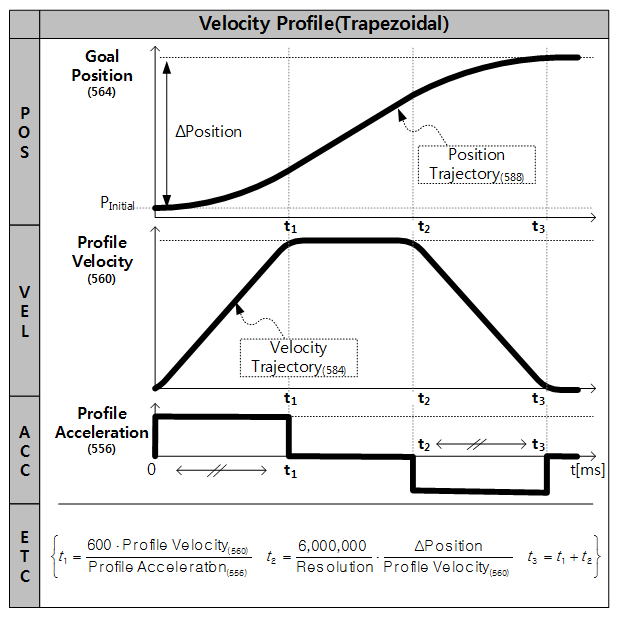
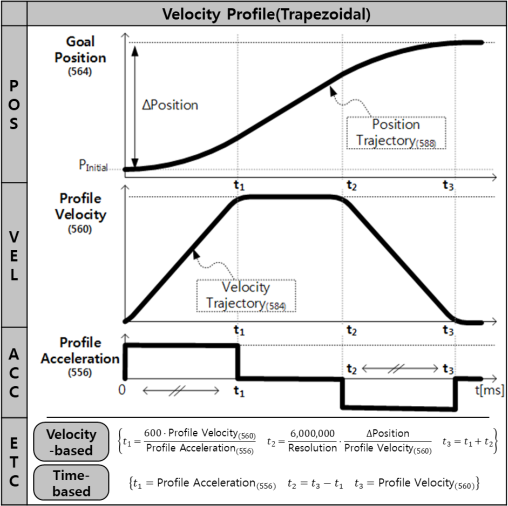
docs: DXL_P Time_based & Profile Description adds
DXL-P supports time_based since firmware v12.

diff --git a/_includes/kr/dxl/p/control_table_560_profile_velocity.md b/_includes/kr/dxl/p/control_table_560_profile_velocity.md
@@ -1,55 +1,20 @@
-Profile의 최대 속도를 설정합니다.  
-Profile Velocity(560)는 위치 제어 모드와 확장 위치 제어 모드에서만 적용 가능합니다.  
-Profile Velocity(560)는 Velocity Limit(44)보다 클 수 없습니다.  
-참고로 속도 제어 모드에서는 Profile Velocity(560)는 적용되지 않고 Profile Acceleration(556)만 적용됩니다.
+[Drive Mode(10)]에서 Velocity-based Profile이 선택된 경우, Profile Velocity(560)는 **Profile의 최대 속도를 설정**합니다.  
+[Drive Mode(10)]에서 Time-based Profile이 선택된 경우, Profile Velocity(560)는 **Profile의 도달 시간(총 시간)을 설정**합니다.  
+Profile Velocity(560)는 **위치제어 모드, 확장 위치제어 모드** 에서만 적용됩니다.  
+자세한 사항은 [Profile]에서 확인하세요.
 
-|      단위      |           범위           |                            설명                             |
-|:--------------:|:------------------------:|:-----------------------------------------------------------:|
-| 0.01 [rev/min] | 0 ~ [Velocity Limit(44)] | Profile Velocity(560)이 '0'인 경우, 무한대 속도를 뜻합니다. |
+**참고** : 속도 제어 모드에서는 Profile Velocity(560)는 사용하지 않습니다. ([Profile Acceleration(556)]만 적용)
+{: .notice}
 
-Profile이란 모터 구동 시 급격하게 변하는 속도와 가속도를 조절함으로써 진동, 소음 및 모터의 부하를 줄이는 가감속 제어 방법입니다.  
-일반적으로 속도에 근거하여 가감속을 제어하기 때문에 Velocity Profile이라고 불립니다.  
-장치는 3가지 형태의 Profile을 제공합니다. 다음은 3가지 종류의 Profile을 표시합니다.  
-기본적으로 Profile의 선택은 Profile Velocity(560)와 Profile Acceleration(556)의 조합에 의해서 결정됩니다.  
-예외적으로 Trapezoidal Profile은 총 이동거리(ΔPos, 목표위치와 현재위치의 차이)가 추가로 고려되어 선택됩니다.  
+| Velocity-based Profile |      상세       | 비고                                |
+|:----------------------:|:---------------:|:------------------------------------|
+|          단위          | 0.01 [rev/min] | Profile의 속도를 설정합니다.        |
+|          범위          |    0 ~ [Velocity Limit(44)    | '0'인 경우, 무한대 속도를 뜻합니다. |
 
-![](/assets/images/dxl/p/profile_types.png)
+| Time-based Profile |   상세    | 비고                                                                                                                                   |
+|:------------------:|:---------:|:---------------------------------------------------------------------------------------------------------------------------------------|
+|        단위        | 1 [msec]  | Profile의 도달시간을 설정합니다.                                                                                                       |
+|        범위        | 0 ~ 32737 | '0'인 경우, 무한대 속도를 뜻합니다.<br>Profile Acceleration(556, 가속시간)이 Profile Velocity(560, 도달시간)의 50%를 넘을 경우, 50%로 제한되어 적용됩니다. |
 
-장치의 Profile은 Goal Position(564)이 주어졌을 때, 현재 속도(Profile의 시작속도)를 기반으로 목표 속도 궤적을 생성합니다.  
-따라서 장치가 Goal Position(564)로 이동하는 중에 새로운 Goal Position(564)로 목표위치가 변경되어도, 속도의 연속성을 유지하면서 목표 속도 궤적을 생성합니다.  
-이와 같이 속도의 불연속이 발생하지 않도록 목표 속도 궤적을 생성하는 기능을 Velocity Override라고 합니다.  
-여기서는 수식의 단순화를 위해 Profile의 시작속도를 ‘0’으로 가정합니다.
-
-다음은 Goal Position(564) 명령에 대한 Profile의 동작 과정을 나타냅니다.
-
-{% capture profile_vel_ex1 %}
-1. 사용자의 요청이 통신 버스를 통해 Goal Position(564)에 등록됩니다.
-2. Profile Velocity(560)와 Profile Acceleration(556)에 의해서 가속 시간(t1)이 결정됩니다.  
-3. Profile Velocity(560), Profile Acceleration(556) 그리고 총 이동거리(ΔPos, 목표 위치와 현재 위치의 차이)에 의해서 Profile의 형태가 다음과 같이 결정됩니다.
-4. 최종 선정된 Profile의 형태는 Moving Status(571)에 표기됩니다.(Moving Status(571) 참고)
-5. 장치는 Profile에 의해 산출된 목표 궤적에 따라 이동하게 됩니다.
-6. Profile에 의한 목표 속도 궤적과 목표 위치 궤적은 Velocity Trajectory(584)와 Position Trajectory(588)에 표기됩니다.
-{% endcapture %}
-
-<div class="notice--success">{{ profile_vel_ex1 | markdownify }}</div>
-
-| 조건                                                          | 프로파일 형태              |
-|:--------------------------------------------------------------|:---------------------------|
-| Profile Velocity(560) = 0                                     | 프로파일 미사용(Step 명령) |
-| (Profile Velocity(560) ≠ 0) & (Profile Acceleration(556) = 0) | 사각 프로파일              |
-| (Profile Velocity(560) ≠ 0) & (Profile Acceleration(556) ≠ 0) | 사다리꼴 프로파일          |
-
-![](/assets/images/dxl/p/velocity_profile.png)
-
-
-{% capture group_notice_03 %}
-**참고** : 속도 제어 모드에서는 Profile Acceleration(556)만 적용됩니다.  
-제공되는 Profile의 형태는 Step과 Trapezoidal 2가지 입니다.  
-Velocity Override 기능은 동일하게 동작합니다.  
-이때의 가속시간(t<sub>1</sub>)은 다음과 같습니다.  
-**t<sub>1</sub> = 600 * {Profile Velocity(560) / Profile Acceleration(556)}**
-{% endcapture %}
-
-<div class="notice">
-  {{ group_notice_03 | markdownify }}
-</div>
+**참고** : Time-based Profile은 펌웨어 V12 이상에서 지원합니다. 
+{: .notice}

diff --git a/_includes/en/dxl/p/control_table_560_profile_velocity.md b/_includes/en/dxl/p/control_table_560_profile_velocity.md
@@ -1,53 +1,17 @@
-The Maximum velocity for Profile can be set with this value.  
-Profile Velocity(560) can be used in Position Control Mode and Extended Position Control Mode.
-Profile Velocity(560) cannot exceed Velocity Limit(44).  
-Velocity Control Mode uses Profile Acceleration(556) only, and Profile Velocity(560) will be ignored.
+When the [Drive Mode(10)] is **Velocity-based Profile**, Profile Velocity(560) sets the maximum velocity of the Profile.  
+When the [Drive Mode(10)] is **Time-based Profile**, Profile Velocity(560) sets the time span to reach the velocity (the total time) of the Profile.  
+The Profile Velocity(560) is to be applied to **Position Control Mode** or **Extended Position Control Mode**  on the [Operating Mode(11)].  
+For more details, see [What is the Profile](#what-is-the-profile)
 
-|      Unit      |       Value Range        |                                Description                                 |
-|:--------------:|:------------------------:|:--------------------------------------------------------------------------:|
-| 0.01 [rev/min] | 0 ~ [Velocity Limit(44)] | Setting Profile Velocity(560) to ‘0’, it represents the infinite velocity. |
+| Velocity-based Profile |          Values          | Description                         |
+|:----------------------:|:------------------------:|:------------------------------------|
+|          Unit          |      0.01 [rev/min]      | Sets velocity of the Profile        |
+|         Range          | 0 ~ [Velocity Limit(44)] | '0' represents an infinite velocity |
 
-The Profile is an acceleration/deceleration control technique to reduce vibration, noise and load on the motor by controlling dramatically changing velocity and acceleration.  
-It is also called Velocity Profile as it controls acceleration and deceleration based on velocity.  
-This device provides the following 3 types of profile.  
-Profiles are usually selected by the combination of Profile Velocity(560) and Profile Acceleration(556).  
-Trapezoidal Profile is exceptionally chosen with additional factor: travel distance(&Delta;Pos, the distance between desired position and present position).
+| Time-based Profile |  Values   | Description                                                                                                                                                                                   |
+|:------------------:|:---------:|:----------------------------------------------------------------------------------------------------------------------------------------------------------------------------------------------|
+|        Unit        | 1 [msec]  | Sets the time span for the Profile                                                                                                                                                            |
+|       Range        | 0 ~ 32737 | '0' represents an infinite velocity.<br>Profile Acceleration(556, Acceleration time) will not exceed 50% of Profile Velocity (560, the time span to reach the velocity of the Profile) value. |
 
-![](/assets/images/dxl/p/profile_types.png)
-
-When given Goal Position(564), the device’s profile creates desired velocity trajectory based on present velocity(initial velocity of the Profile).  
-When the device receives updated desired position via Goal Position(564) while it is moving toward the previous desired position, velocity will smoothly changed for the new desired velocity trajectory.  
-Maintaining velocity continuity while updating the desired velocity trajectory is called "Velocity Override".  
-For easier calculation in this example, let’s assume that the initial velocity of the Profile is `0`.
-
-The following explains how Profile processes Goal Position(564).
-
-{% capture profile_vel_ex1 %}
-1. An Instruction is recieved via communication bus, then registered in Goal Position(564).
-2. Accelerating time(t<sub>1</sub>) is calculated from Profile Velocity(560) and Profile Acceleration(556).
-3. Profile type is decided based on Profile Velocity(560), Profile Acceleration(556) and total travel distance(&Delta;Pos, the distance difference between desired position and present position).
-4. Selected Profile type is stored at Moving Status(571).(Refer to the Moving Status(571))
-5. The device is driven by the calculated desired trajectory from Profile.
-6. The desired velocity trajectory and the desired position trajectory calculated by the Profile are saved at Velocity Trajectory(584) and Position Trajectory(588) respectively.
-{% endcapture %}
-
-<div class="notice--success">{{ profile_vel_ex1 | markdownify }}</div>
-
-| Condition                                                     | Types of Profile                       |
-|:--------------------------------------------------------------|:---------------------------------------|
-| Profile Velocity(560) = 0                                     | Profile not used<br>(Step Instruction) |
-| (Profile Velocity(560) ≠ 0) & (Profile Acceleration(556) = 0) | Rectangular Profile                    |
-| (Profile Velocity(560) ≠ 0) & (Profile Acceleration(556) ≠ 0) | Trapezoidal Profile                    |
-
-![](/assets/images/dxl/p/velocity_profile.png)
-
-
-{% capture group_notice_03 %}
-**NOTE** : Velocity Control Mode only uses Profile Acceleration(556).  
-Step and Trapezoidal Profiles are supported and Velocity Override is supported as well.  
-Acceleration time(t<sub>1</sub>) can be calculated as below equation.
-
-**t<sub>1</sub> = 600 * {Profile Velocity(560) / Profile Acceleration(556)}**
-{% endcapture %}
-
-<div class="notice">{{ group_notice_03 | markdownify }}</div>
+**NOTE**: Time-based Profile is available from firmware v12.
+{: .notice}

diff --git a/_includes/kr/dxl/p_profile_description.md b/_includes/kr/dxl/p_profile_description.md
@@ -1,0 +1,59 @@
+Profile이란 모터 구동 시 급격하게 변하는 속도와 가속도를 조절함으로써 진동, 소음 및 모터의 부하를 줄이는 가감속 제어 방법입니다.  
+일반적으로 속도에 근거하여 가감속을 제어하기 때문에 Velocity Profile이라고 불립니다.  
+장치는 3가지 형태의 Profile을 제공합니다. 다음은 3가지 종류의 Profile을 표시합니다.  
+기본적으로 Profile의 선택은 [Profile Velocity(560)]와 [Profile Acceleration(556)]의 조합에 의해서 결정됩니다.  
+예외적으로 Trapezoidal Profile은 총 이동거리(ΔPos, 목표위치와 현재위치의 차이)가 추가로 고려되어 선택됩니다.  
+
+![](/assets/images/dxl/p/profile_types.png)
+
+장치의 Profile은 [Goal Position(564)]이 주어졌을 때, 현재 속도(Profile의 시작속도)를 기반으로 목표 속도 궤적을 생성합니다.  
+따라서 장치가 [Goal Position(564)]로 이동하는 중에 새로운 [Goal Position(564)]로 목표위치가 변경되어도, 속도의 연속성을 유지하면서 목표 속도 궤적을 생성합니다.  
+이와 같이 속도의 불연속이 발생하지 않도록 목표 속도 궤적을 생성하는 기능을 Velocity Override라고 합니다.  
+여기서는 수식의 단순화를 위해 Profile의 시작속도를 ‘0’으로 가정합니다.
+
+다음은 [Goal Position(564)] 명령에 대한 Profile의 동작 과정을 나타냅니다.
+
+{% capture profile_vel_ex1 %}
+1. 사용자의 요청이 통신 버스를 통해 [Goal Position(564)](#goal_position564)에 등록됩니다.
+2. [Profile Velocity(560)](#profile-velocity560)와 [Profile Acceleration(556)](#profile-acceleration556)에 의해서 가속 시간(t1)이 결정됩니다.  
+3. [Profile Velocity(560)](#profile-velocity560), [Profile Acceleration(556)](#profile-acceleration556) 그리고 총 이동거리(ΔPos, 목표 위치와 현재 위치의 차이)에 의해서 Profile의 형태가 다음과 같이 결정됩니다.
+4. 최종 선정된 Profile의 형태는 [Moving Status(571)](#moving-status571)에 표기됩니다.
+5. 장치는 Profile에 의해 산출된 목표 궤적에 따라 이동하게 됩니다.
+6. Profile에 의한 목표 속도 궤적과 목표 위치 궤적은 [Velocity Trajectory(584)](#velocity-trajectory584)와 [Position Trajectory(588)](#position-trajectory588)에 표기됩니다.
+{% endcapture %}
+
+<div class="notice--success">{{ profile_vel_ex1 | markdownify }}</div>
+
+| 조건                                                          | 프로파일 형태              |
+|:--------------------------------------------------------------|:---------------------------|
+| Profile Velocity(560) = 0                                     | 프로파일 미사용(Step 명령) |
+| (Profile Velocity(560) ≠ 0) & (Profile Acceleration(556) = 0) | 사각 프로파일              |
+| (Profile Velocity(560) ≠ 0) & (Profile Acceleration(556) ≠ 0) | 사다리꼴 프로파일          |
+
+![](/assets/images/dxl/p/velocity_profile.png)
+
+{% capture group_notice_03 %}
+**참고** : 속도 제어 모드에서는 [Profile Acceleration(556)](#profile-acceleration556)만 적용됩니다.  
+제공되는 Profile의 형태는 Step과 Trapezoidal 2가지 입니다.  
+Velocity Override 기능은 동일하게 동작합니다.  
+이때의 가속시간(t<sub>1</sub>)은 다음과 같습니다.  
+**Velocity-based Profile**: **t<sub>1</sub> = 600 * {Profile Velocity(560) / Profile Acceleration(556)}**  
+**Time-based Profile**: **t<sub>1</sub> = Profile Acceleration(556)**
+{% endcapture %}
+
+<div class="notice">
+  {{ group_notice_03 | markdownify }}
+</div>
+
+{% capture group_notice_04 %}
+**참고** : Time-based Profile이 선택된 경우, [Profile Velocity(560)](#profile-velocity560)로 Profile 총 시간(t<sub>3</sub>)을, [Profile Acceleration(556)](#profile-acceleration556)로
+ 가속시간(t<sub>1</sub>)을 [ms] 단위로 설정할 수 있습니다. 이때 [Profile Acceleration(556)](#profile-acceleration556)이 [Profile Velocity(560)](#profile-velocity560)의 50%를 넘을 경우,
+ [Profile Acceleration(556)](#profile-acceleration556)은 [Profile Velocity(560)](#profile-velocity560))의 50%로 제한되어 적용됩니다.
+{% endcapture %}
+
+<div class="notice">
+  {{ group_notice_04 | markdownify }}
+</div>
+
+[Profile Acceleration(556)]: #profile-acceleration556
+[Profile Velocity(560)]: #profile-velocity560

diff --git a/_includes/en/dxl/p_profile_description.md b/_includes/en/dxl/p_profile_description.md
@@ -1,0 +1,55 @@
+The Profile is an acceleration/deceleration control technique to reduce vibration, noise and load on the motor by controlling dramatically changing velocity and acceleration.  
+It is also called Velocity Profile as it controls acceleration and deceleration based on velocity.  
+This device provides the following 3 types of profile.  
+Profiles are usually selected by the combination of [Profile Velocity(560)] and [Profile Acceleration(556)].  
+Trapezoidal Profile is exceptionally chosen with additional factor: travel distance(&Delta;Pos, the distance between desired position and present position).
+
+![](/assets/images/dxl/p/profile_types.png)
+
+When given [Goal Position(564)], the device’s profile creates desired velocity trajectory based on present velocity(initial velocity of the Profile).  
+When the device receives updated desired position via [Goal Position(564)] while it is moving toward the previous desired position, velocity will smoothly changed for the new desired velocity trajectory.  
+Maintaining velocity continuity while updating the desired velocity trajectory is called "Velocity Override".  
+For easier calculation in this example, let’s assume that the initial velocity of the Profile is `0`.
+
+The following explains how Profile processes [Goal Position(564)].
+
+{% capture profile_vel_ex1 %}
+1. An Instruction is recieved via communication bus, then registered in [Goal Position(564)](#goal_position564).
+2. Accelerating time(t<sub>1</sub>) is calculated from [Profile Velocity(560)](#profile-velocity560) and [Profile Acceleration(556)](#profile-acceleration556).
+3. Profile type is decided based on [Profile Velocity(560)](#profile-velocity560), [Profile Acceleration(556)](#profile-acceleration556) and total travel distance(&Delta;Pos, the distance difference between desired position and present position).
+4. Selected Profile type is stored at [Moving Status(571)](#moving-status571).
+5. The device is driven by the calculated desired trajectory from Profile.
+6. The desired velocity trajectory and the desired position trajectory calculated by the Profile are saved at [Velocity Trajectory(584)](#velocity-trajectory584) and [Position Trajectory(588)](#position-trajectory588) respectively.
+{% endcapture %}
+
+<div class="notice--success">{{ profile_vel_ex1 | markdownify }}</div>
+
+| Condition                                                     | Types of Profile                       |
+|:--------------------------------------------------------------|:---------------------------------------|
+| Profile Velocity(560) = 0                                     | Profile not used<br>(Step Instruction) |
+| (Profile Velocity(560) ≠ 0) & (Profile Acceleration(556) = 0) | Rectangular Profile                    |
+| (Profile Velocity(560) ≠ 0) & (Profile Acceleration(556) ≠ 0) | Trapezoidal Profile                    |
+
+![](/assets/images/dxl/p/velocity_profile.png)
+
+{% capture group_notice_03 %}
+**NOTE** : Velocity Control Mode only uses [Profile Velocity(560)](#profile-velocity560).  
+Step and Trapezoidal Profiles are supported and Velocity Override is supported as well.  
+Acceleration time(t<sub>1</sub>) can be calculated as below equation.
+
+**t<sub>1</sub> = 600 * {Profile Velocity(560) / Profile Acceleration(556)}**  
+**Time-based Profile**: **t<sub>1</sub> = Profile Acceleration(556)**
+{% endcapture %}
+
+<div class="notice">{{ group_notice_03 | markdownify }}</div>
+
+{% capture group_notice_04 %}
+**NOTE** : If Time-based Profile is selected, [Profile Velocity(560)](#profile-velocity560) is used to set the time span of the Profile(t<sub>3</sub>), while [Profile Acceleration(556)](#profile-acceleration556) sets accelerating time(t<sub>1</sub>) in millisecond[ms]. [Profile Acceleration(556)](#profile-acceleration556) will not exceed 50% of [Profile Velocity(560)](#profile-velocity560) value.
+{% endcapture %}
+
+<div class="notice">
+  {{ group_notice_04 | markdownify }}
+</div>
+
+[Profile Acceleration(556)]: #profile-acceleration556
+[Profile Velocity(560)]: #profile-velocity560

diff --git a/_includes/en/dxl/p/control_table_556_profile_acceleration.md b/_includes/en/dxl/p/control_table_556_profile_acceleration.md
@@ -1,8 +1,21 @@
-The acceleration of Profile can be set with this value. Profile Acceleration(556) is only used for Velocity Control Mode, Position Control Mode and Extended Position Control Mode. Note that the value of Profile Acceleration(556) cannot exceed [Acceleration Limit(40)].
+When the [Drive Mode(10)] is **Velocity-based Profile**, Profile Acceleration(556) sets acceleration of the Profile.  
+When the [Drive Mode(10)] is **Time-based Profile**, Profile Acceleration(556) sets acceleration time of the Profile.  
+The Profile Acceleration(556) is to be applied in all control mode except **Current Control Mode** or **PWM Control Mode** on the [Operating Mode(11)].  
+For more details, see [What is the Profile](#what-is-the-profile)
 
-|     Unit     |         Value Range          |                                    Description                                    |
-|:------------:|:----------------------------:|:---------------------------------------------------------------------------------:|
-| 1 [rev/min2] | 0 ~ [Acceleration Limit(40)] | Setting Profile Acceleration(556) to ‘0’, it represents the infinite acceleration |
+| Velocity-based Profile |            Values            | Description                             |
+|:----------------------:|:----------------------------:|:----------------------------------------|
+|          Unit          | 0 ~ [Acceleration Limit(40)] | Sets acceleration of the Profile        |
+|         Range          |          0 ~ 32767           | '0' represents an infinite acceleration |
+
+| Time-based Profile |  Values   | Description                                                                                                                                                                                                        |
+|:------------------:|:---------:|:-------------------------------------------------------------------------------------------------------------------------------------------------------------------------------------------------------------------|
+|        Unit        | 1 [msec]  | Sets accelerating time of the Profile                                                                                                                                                                              |
+|       Range        | 0 ~ 32737 | '0' represents an infinite acceleration time('0 [msec]').<br>Profile Acceleration(556, Acceleration time) will not exceed 50% of Profile Velocity (112, the time span to reach the velocity of the Profile) value. |
+
 
 **NOTE** : When Profile Velocity(560) is set to '0', the profile's acceleration will be ignored.
+{: .notice}
+
+**NOTE** : Time-based Profile is available from firmware 12. 
 {: .notice}

diff --git a/_includes/kr/dxl/p/control_table_556_profile_acceleration.md b/_includes/kr/dxl/p/control_table_556_profile_acceleration.md
@@ -1,8 +1,24 @@
-프로파일 가속도를 설정합니다. 속도 제어 모드, 위치 제어 모드, 확장 위치 제어 모드에서만 사용할 수 있습니다. Profile Acceleration(556)은 [Acceleration Limit(40)]보다 클 수 없습니다.
+[Drive Mode(10)](#drive-mode10)에서 **Velocity-based Profile**이 선택된 경우, Profile Acceleration(556)은 Profile의 가속도를 설정합니다.  
+[Drive Mode(10)](#drive-mode10)에서 **Time-based Profile**이 선택된 경우, Profile Acceleration(556)은 Profile의 가속시간을 설정합니다.  
+Profile Acceleration(556)은 전류 제어 모드 및 PWM 제어모드를 제외한 모든 제어 모드에서 적용 가능합니다.  
+자세한 사항은 [Profile]에서 확인하세요.
 
 |     단위     |             범위             |                               설명                                |
 |:------------:|:----------------------------:|:-----------------------------------------------------------------:|
 | 1 [rev/min2] | 0 ~ [Acceleration Limit(40)] | Profile Acceleration(556)이 '0'인 경우, 무한대 가속도를 뜻합니다. |
 
+| Velocity-based Profile |             상세             | 비고                                  |
+|:----------------------:|:----------------------------:|:--------------------------------------|
+|          단위          |   1 [rev/min<sup>2</sup>]    | Profile의 가속도를 설정합니다.        |
+|          범위          | 0 ~ [Acceleration Limit(40)] | '0'인 경우, 무한대 가속도를 뜻합니다. |
+
+| Time-based Profile |   상세    | 비고                                                                                                                                                            |
+|:------------------:|:---------:|:----------------------------------------------------------------------------------------------------------------------------------------------------------------|
+|        단위        | 1 [msec]  | Profile의 가속시간을 설정합니다.                                                                                                                                |
+|        범위        | 0 ~ 32737 | '0'인 경우, 가속시간이 '0 [msec]'(무한대 가속도)를 뜻합니다.<br>Profile Acceleration(108, 가속시간)이 Profile Velocity(112, 도달시간)의 50%를 넘을 경우, 50%로 제한되어 적용됩니다. |
+
 **주의** : Profile Velocity(560) 의 값이 0일 때는 프로파일 가속도가 적용되지 않습니다.
+{: .notice}
+
+**참고** : Time-based Profile은 펌웨어 V12 이상에서 지원합니다. 
 {: .notice}
